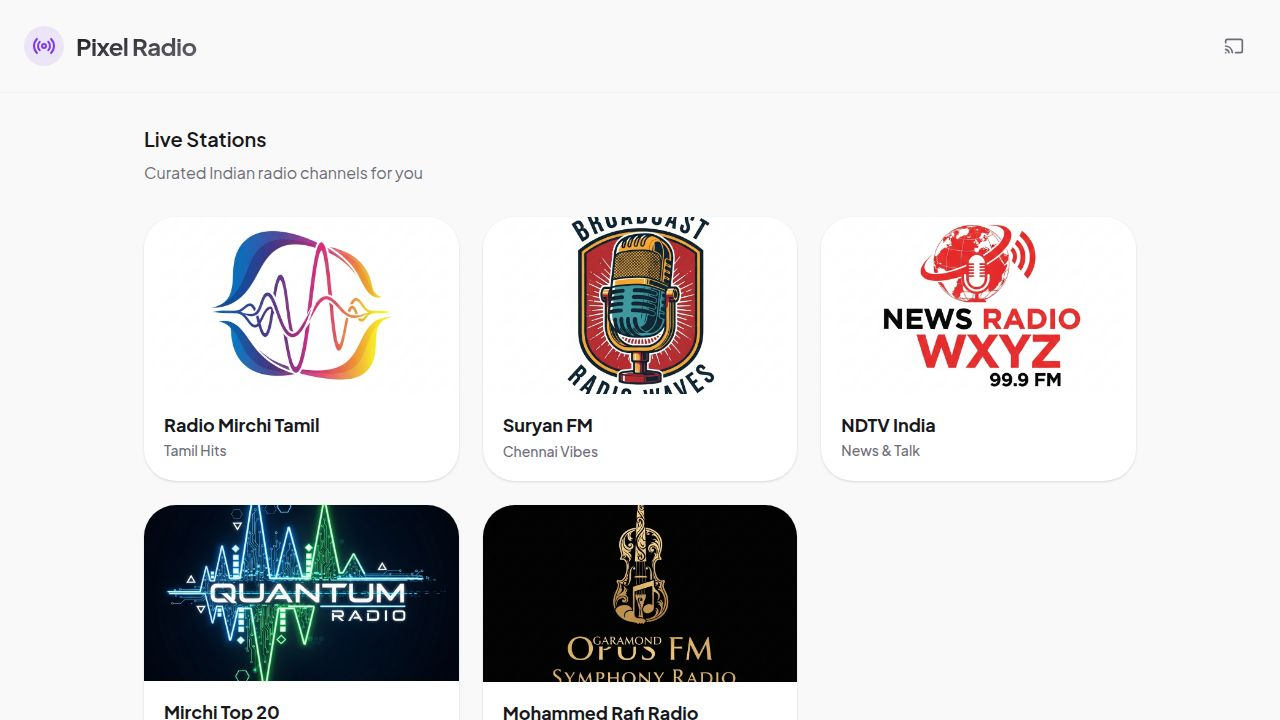
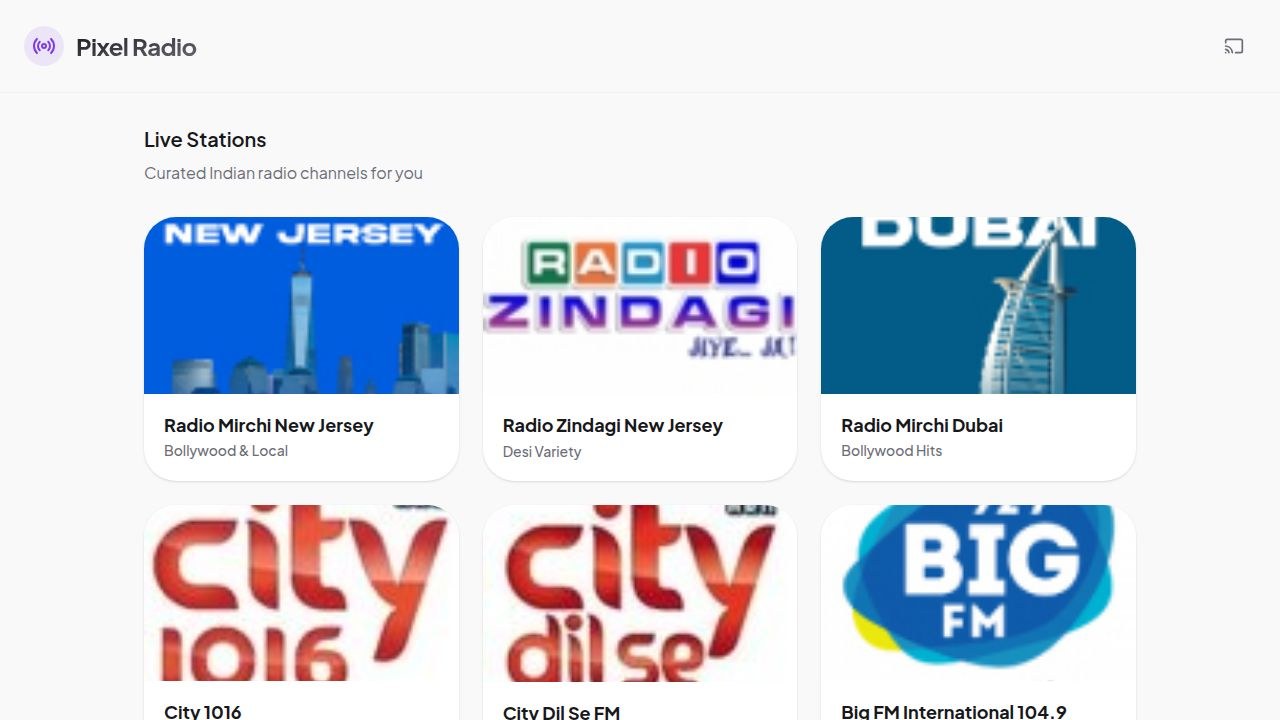
Update radio station list with new images and streaming URLs
Updates `client/lib/stations.ts` with new station data, including streaming URLs and image paths, and modifies `client/pages/Home.tsx` to dynamically apply station colors and styles to the player UI elements.

Replit-Commit-Author: Agent
Replit-Commit-Session-Id: 27f3410e-1e02-4a3f-b71d-6629d0aa1be3
Replit-Commit-Checkpoint-Type: full_checkpoint
Replit-Commit-Event-Id: 911fc68b-b5d1-46ca-ab27-752d8bc3ac63
Replit-Commit-Screenshot-Url: https://storage.googleapis.com/screenshot-production-us-central1/9f173688-71ca-413e-b573-11faceb4b72d/27f3410e-1e02-4a3f-b71d-6629d0aa1be3/tL2vGX8
Replit-Helium-Checkpoint-Created: true

diff --git a/client/src/pages/Home.tsx b/client/src/pages/Home.tsx
@@ -118,18 +118,33 @@ export default function Home() {
             exit={{ y: 100, opacity: 0 }}
             className="fixed bottom-0 left-0 right-0 p-4 z-50 pointer-events-none flex justify-center"
           >
-            <div className="w-full max-w-2xl bg-white dark:bg-zinc-900 rounded-[2rem] shadow-2xl border border-border/50 p-4 pointer-events-auto backdrop-blur-xl supports-[backdrop-filter]:bg-background/80 flex items-center gap-4 pr-6">
+            <div 
+              className={cn(
+                "w-full max-w-2xl rounded-[2rem] shadow-2xl border border-border/20 p-4 pointer-events-auto backdrop-blur-3xl transition-colors duration-700 flex items-center gap-4 pr-6",
+                currentStation.color.replace('bg-', 'bg-').replace('-600', '-500/20').replace('-500', '-400/20').replace('-700', '-600/20'),
+                "bg-white/80 dark:bg-zinc-900/80"
+              )}
+              style={{
+                background: `linear-gradient(135deg, hsl(var(--background) / 0.8), hsl(var(--background) / 0.9)), var(--tw-gradient-to)`
+              }}
+            >
               
               {/* Spinning Album Art */}
               <div className="relative shrink-0">
                 <motion.div 
                   animate={{ rotate: isPlaying ? 360 : 0 }}
                   transition={{ repeat: Infinity, duration: 10, ease: "linear" }}
-                  className="w-16 h-16 rounded-full overflow-hidden border-2 border-border shadow-sm"
+                  className={cn(
+                    "w-16 h-16 rounded-full overflow-hidden border-2 shadow-lg transition-colors duration-700",
+                    currentStation.color.replace('bg-', 'border-')
+                  )}
                 >
                   <img src={currentStation.image} alt="Playing" className="w-full h-full object-cover" />
                 </motion.div>
-                <div className="absolute -bottom-1 -right-1 bg-primary text-primary-foreground rounded-full p-1 border-2 border-background">
+                <div className={cn(
+                  "absolute -bottom-1 -right-1 rounded-full p-1 border-2 border-background transition-colors duration-700",
+                  currentStation.color
+                )}>
                   <div className="w-3 h-3 bg-white rounded-full animate-pulse" />
                 </div>
               </div>
@@ -156,7 +171,10 @@ export default function Home() {
 
                 <button 
                   onClick={togglePlay}
-                  className="w-14 h-14 rounded-2xl bg-primary text-primary-foreground flex items-center justify-center hover:scale-105 active:scale-95 transition-transform shadow-lg shadow-primary/20"
+                  className={cn(
+                    "w-14 h-14 rounded-2xl text-white flex items-center justify-center hover:scale-105 active:scale-95 transition-all shadow-lg shadow-black/10",
+                    currentStation.color
+                  )}
                 >
                   {isPlaying ? (
                     <Pause className="w-7 h-7 fill-current" />

diff --git a/client/src/lib/stations.ts b/client/src/lib/stations.ts
@@ -12,16 +12,16 @@ export const STATIONS: Station[] = [
     id: 'mirchi-nj',
     name: 'Radio Mirchi New Jersey',
     genre: 'Bollywood & Local',
-    url: 'http://peridot.streamguys.com:7150/Mirchi',
-    image: '/assets/stations/station-1.png',
-    color: 'bg-orange-500'
+    url: 'https://peridot.streamguys1.com:7152/Mirchi',
+    image: '/assets/stations/mirchi_nj.png',
+    color: 'bg-blue-600'
   },
   {
     id: 'zindagi-nj',
     name: 'Radio Zindagi New Jersey',
     genre: 'Desi Variety',
-    url: 'http://76.164.217.100:7481/',
-    image: '/assets/stations/station-2.png',
+    url: 'https://peridot.streamguys1.com:7142/Zindagi',
+    image: '/assets/stations/zindagi.png',
     color: 'bg-green-600'
   },
   {
@@ -29,55 +29,55 @@ export const STATIONS: Station[] = [
     name: 'Radio Mirchi Dubai',
     genre: 'Bollywood Hits',
     url: 'https://radio.mirchi.ae/dubai/stream',
-    image: '/assets/stations/station-3.png',
-    color: 'bg-red-500'
+    image: '/assets/stations/mirchi_dubai.png',
+    color: 'bg-sky-600'
   },
   {
     id: 'city-1016',
     name: 'City 1016',
     genre: 'UAE No. 1 Bollywood',
     url: 'https://arn.itp.com/city1016',
-    image: '/assets/stations/city1016.png',
-    color: 'bg-yellow-500'
+    image: '/assets/stations/city_1016.jpg',
+    color: 'bg-red-600'
   },
   {
     id: 'city-dil-se',
     name: 'City Dil Se FM',
     genre: 'Retro Bollywood',
     url: 'https://arn.itp.com/citydilse',
-    image: '/assets/stations/station-4.png',
-    color: 'bg-pink-500'
+    image: '/assets/stations/city_dil_se.jpg',
+    color: 'bg-rose-500'
   },
   {
     id: 'big-fm-int',
     name: 'Big FM International 104.9',
     genre: 'Global Desi Hits',
-    url: 'http://sc-bb.1.fm:8017/',
-    image: '/assets/stations/bigfm.png',
-    color: 'bg-blue-600'
+    url: 'https://sc-bb.1.fm:8017/',
+    image: '/assets/stations/bigfm_int.webp',
+    color: 'bg-blue-500'
   },
   {
     id: 'mirchi-983',
     name: 'Radio Mirchi 98.3 FM',
     genre: 'India Original',
-    url: 'http://radios.crabdance.com:8002/1',
-    image: '/assets/stations/station-1.png',
-    color: 'bg-orange-600'
+    url: 'https://mirchi.stream.is/mirchi_983',
+    image: '/assets/stations/mirchi_983.webp',
+    color: 'bg-orange-500'
   },
   {
     id: 'big-fm-927',
     name: '92.7 Big FM',
     genre: 'Dhun Badal Ke Toh Dekho',
-    url: 'http://radios.crabdance.com:8002/2',
-    image: '/assets/stations/bigfm.png',
-    color: 'bg-blue-500'
+    url: 'https://mirchi.stream.is/bigfm_927',
+    image: '/assets/stations/bigfm_927.webp',
+    color: 'bg-cyan-600'
   },
   {
     id: 'red-fm-935',
     name: 'Red FM 93.5',
     genre: 'Bajaate Raho!',
-    url: 'http://radios.crabdance.com:8002/3',
-    image: '/assets/stations/redfm.png',
-    color: 'bg-red-600'
+    url: 'https://mirchi.stream.is/redfm_935',
+    image: '/assets/stations/redfm_935.webp',
+    color: 'bg-red-700'
   }
 ];
